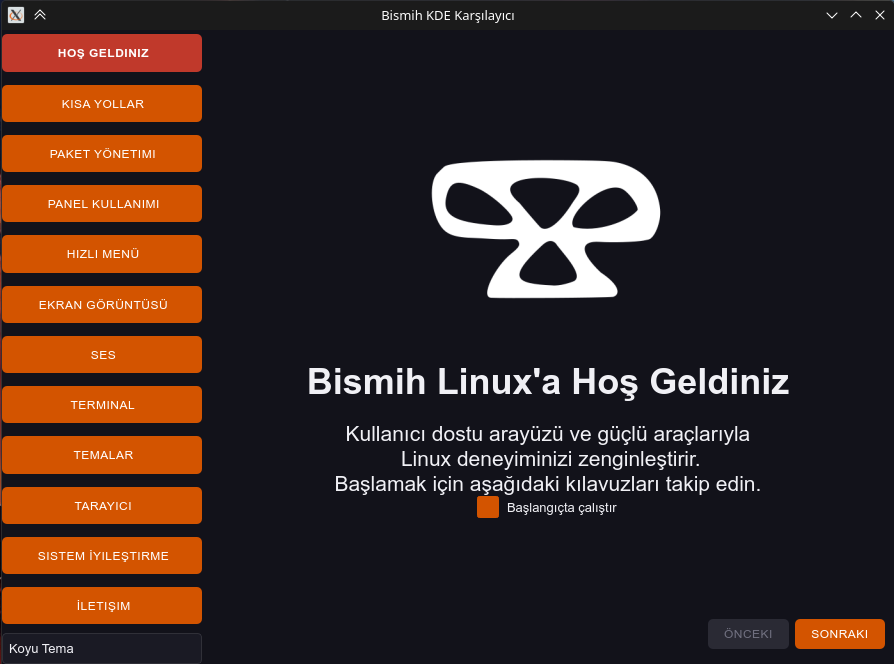
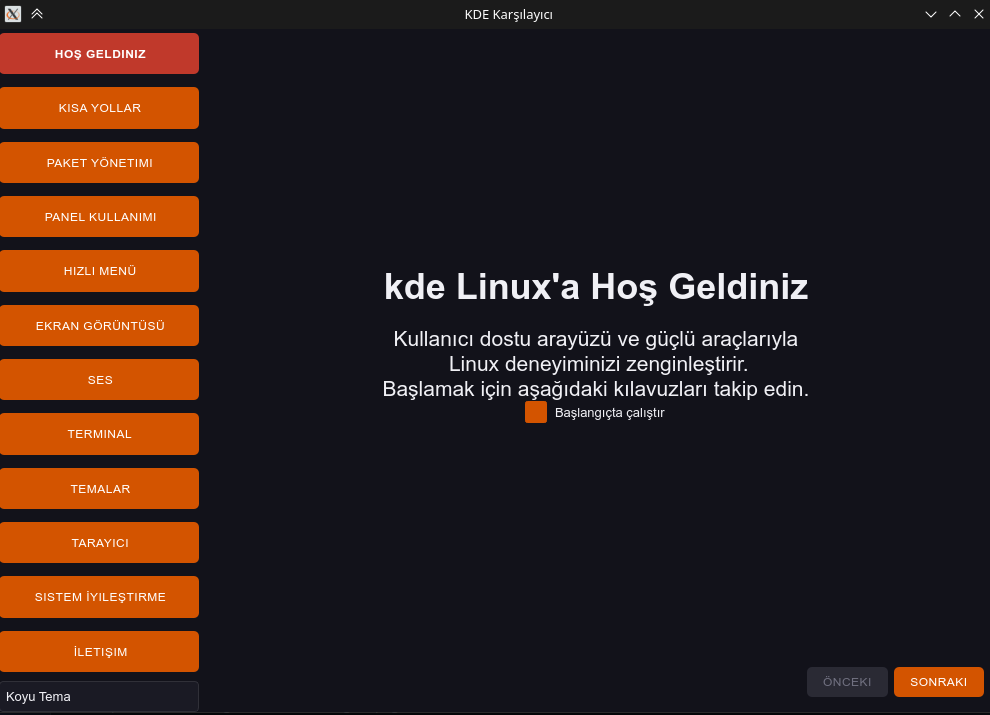
refactor

diff --git a/setup.py b/setup.py
@@ -21,31 +21,31 @@ if os.path.exists(changelog):
 
 data_files = [
     # Main executable and desktop file
-    ("/usr/bin", ["bismih-welcome"]),
-    ("/usr/share/applications", ["bismih-welcome.desktop"]),
+    ("/usr/bin", ["kde-welcome"]),
+    ("/usr/share/applications", ["kde-welcome.desktop"]),
     # Icons
     (
         "/usr/share/icons/hicolor/scalable/apps/",
-        ["data/icons/bismih-welcome.svg"],
+        ["data/icons/kde-welcome.svg"],
     ),
     # Main application files
-    ("/usr/share/bismih-welcome/", ["main.py"]),
+    ("/usr/share/kde-welcome/", ["main.py"]),
     # Source code - static
-    ("/usr/share/bismih-welcome/src/static", ["src/static/config.py"]),
+    ("/usr/share/kde-welcome/src/static", ["src/static/config.py"]),
     # Source code - theme
-    ("/usr/share/bismih-welcome/src/theme", ["src/theme/theme_manager.py"]),
-    ("/usr/share/bismih-welcome/src/theme/icons", [
+    ("/usr/share/kde-welcome/src/theme", ["src/theme/theme_manager.py"]),
+    ("/usr/share/kde-welcome/src/theme/icons", [
         "src/theme/icons/branch-closed.png",
         "src/theme/icons/branch-open.png",
         "src/theme/icons/check-white.png"
     ]),
     # Source code - UI
-    ("/usr/share/bismih-welcome/src/ui", [
+    ("/usr/share/kde-welcome/src/ui", [
         "src/ui/categories.py",
         "src/ui/main_window.py"
     ]),
     # Source code - UI components
-    ("/usr/share/bismih-welcome/src/ui/components", [
+    ("/usr/share/kde-welcome/src/ui/components", [
         "src/ui/components/browser_comp.py",
         "src/ui/components/communication_comp.py",
         "src/ui/components/layout_sellector_comp.py",
@@ -62,14 +62,14 @@ data_files = [
         "src/ui/components/welcome_comp.py"
     ]),
     # Source code - UI widgets
-    ("/usr/share/bismih-welcome/src/ui/widgets", [
+    ("/usr/share/kde-welcome/src/ui/widgets", [
         "src/ui/widgets/BLabel.py",
         "src/ui/widgets/gif_viewer.py"
     ]),
     # Data files - theme
-    ("/usr/share/bismih-welcome/data", ["data/theme.qss"]),
+    ("/usr/share/kde-welcome/data", ["data/theme.qss"]),
     # Data files - icons
-    ("/usr/share/bismih-welcome/data/icons", [
+    ("/usr/share/kde-welcome/data/icons", [
         "data/icons/browser-svgrepo-com.svg",
         "data/icons/circle-menu-svgrepo-com.svg",
         "data/icons/dialog-svgrepo-com.svg",
@@ -88,14 +88,14 @@ data_files = [
         "data/icons/terminal-svgrepo-com.svg"
     ]),
     # Data files - images
-    ("/usr/share/bismih-welcome/data/images", [
-        "data/images/bismih_icon_dark.png",
-        "data/images/bismih_icon_dark.svg",
-        "data/images/bismih_icon_light.png",
-        "data/images/bismih_icon_light.svg",
+    ("/usr/share/kde-welcome/data/images", [
+        "data/images/kde_icon_dark.png",
+        "data/images/kde_icon_dark.svg",
+        "data/images/kde_icon_light.png",
+        "data/images/kde_icon_light.svg",
         "data/images/zen_browser.png"
     ]),
-    ("/usr/share/bismih-welcome/data/images/gestures", [
+    ("/usr/share/kde-welcome/data/images/gestures", [
         "data/images/gestures/2gesture_d.png",
         "data/images/gestures/2gesture_l.png",
         "data/images/gestures/3gesture_d.png",
@@ -104,7 +104,7 @@ data_files = [
         "data/images/gestures/4gesture_l.png"
     ]),
     # Data files - gifs
-    ("/usr/share/bismih-welcome/data/gifs", [
+    ("/usr/share/kde-welcome/data/gifs", [
         "data/gifs/ekran.gif",
         "data/gifs/ekran_yazi.gif",
         "data/gifs/kesfet.gif",
@@ -120,21 +120,21 @@ data_files = [
         "data/gifs/terminal.gif"
     ]),
     # Test gif
-    ("/usr/share/bismih-welcome/data", ["data/test.gif"]),
+    ("/usr/share/kde-welcome/data", ["data/test.gif"]),
 ]
 
 
 setup(
-    name="bismih-welcome",
+    name="kde-welcome",
     version=version,
     packages=find_packages(),
-    scripts=["bismih-welcome"],
+    scripts=["kde-welcome"],
     install_requires=["PyQt6", "pyautogui", "coloredlogs", "pyyaml", "pyxdg"],
     data_files=data_files,
     author="Muhammet Halak",
     author_email="halakmuhammet145@gmail.com",
-    description="Bismih Welcome Application",
+    description="kde Welcome Application",
     license="GPLv3",
-    keywords="bismih-welcome, welcome, hoşgeldin, karşılama",
-    url="https://github.com/bismih-org/bismih-welcome",
+    keywords="kde-welcome, welcome, hoşgeldin, karşılama",
+    url="https://github.com/kde-org/kde-welcome",
 )

diff --git a/src/ui/components/communication_comp.py b/src/ui/components/communication_comp.py
@@ -42,7 +42,7 @@ class CommunicationComp(QWidget):
         github_card = self.generate_contact_card(
             "GitHub",
             "Kaynak kod, issue'lar ve katkıda bulunma",
-            "https://github.com/bismih-org",
+            "https://github.com/pardus",
             "#24292e"
         )
         cards_layout.addWidget(github_card, 0, 0)
@@ -51,16 +51,16 @@ class CommunicationComp(QWidget):
         forum_card = self.generate_contact_card(
             "Forum",
             "Topluluk tartışmaları ve destek",
-            "https://github.com/orgs/bismih-org/discussions",
+            "https://forum.pardus.org.tr/",
             "#0969da"
         )
         cards_layout.addWidget(forum_card, 0, 1)
 
-        # Signal kartı
+        # Discord kartı
         discord_card = self.generate_contact_card(
-            "Signal",
+            "Discord",
             "Anlık sohbet ve topluluk",
-            "https://signal.group/#CjQKILD6taU2K6HXyYScZY08o4o2krF3xQDktDrxFIq16JNiEhAS6WpiAcJ6a2_Ii_2GFDrQ",  # Gerçek link ile değiştirin
+            "https://discord.com/invite/vF7mj53ZNV",  # Gerçek link ile değiştirin
             "#2530FD"
         )
         cards_layout.addWidget(discord_card, 1, 0)
@@ -69,7 +69,7 @@ class CommunicationComp(QWidget):
         email_card = self.generate_contact_card(
             "E-posta",
             "Resmi iletişim ve destek",
-            "mailto:halakmuhammet145@gmail.com",  # Gerçek email ile değiştirin
+            "mailto:bilgi@pardus.org.tr",  # Gerçek email ile değiştirin
             "#ea4335"
         )
         cards_layout.addWidget(email_card, 1, 1)

diff --git a/src/ui/components/package_manager_comp.py b/src/ui/components/package_manager_comp.py
@@ -133,7 +133,7 @@ class PackageManagerComp(QWidget):
 
         # Açıklama
         desc = """Program yüklemek için internette dolaşma
-Bismih Linux, Mağaza ve Uçbirim desteği ile kolaylıkla program yükle"""
+kde Linux, Mağaza ve Uçbirim desteği ile kolaylıkla program yükle"""
 
         desc_label = BLabel(desc, 11)
         desc_label.setAlignment(Qt.AlignmentFlag.AlignCenter)
@@ -225,7 +225,7 @@ Bismih Linux, Mağaza ve Uçbirim desteği ile kolaylıkla program yükle"""
         docs_button = QPushButton("📘 Paket Yönetimi Belgelerini Görüntüle")
         docs_button.clicked.connect(
             lambda: QDesktopServices.openUrl(
-                QUrl("https://github.com/bismih-org/.github/wiki")
+                QUrl("https://github.com/kde-org/.github/wiki")
             )
         )
         docs_section.addWidget(docs_button)

diff --git a/src/ui/components/welcome_comp.py b/src/ui/components/welcome_comp.py
@@ -30,7 +30,7 @@ class WelcomeComp(QWidget):
         self.mainLayout.addWidget(self.icon_label)
 
         # Başlık ve açıklama ekle
-        self.title = BLabel("Bismih Linux'a Hoş Geldiniz", 27, is_bold=True)
+        self.title = BLabel("kde Linux'a Hoş Geldiniz", 27, is_bold=True)
         self.mainLayout.addWidget(self.title)
         self.mainLayout.addSpacing(20)
 
@@ -65,7 +65,7 @@ class WelcomeComp(QWidget):
 
     def updateWid(self):
         # İkon yolunu temaya göre güncelle
-        p = "data/images/bismih_icon_"
+        p = "data/images/kde_icon_"
         icon_path = p + ("dark" if not cfg.IS_THEME_DARK else "light") + ".png"
         print(f"Icon path: {icon_path}")
         icon_pixmap = QIcon(icon_path).pixmap(QSize(256, 256))

diff --git a/src/ui/main_window.py b/src/ui/main_window.py
@@ -112,7 +112,7 @@ class MainWindow(QMainWindow):
         mainLayout.addWidget(rightPanel, 1)  # 1 değeri genişleyebilir olduğunu belirtir
 
         # Pencere ayarları
-        self.setWindowTitle("Bismih KDE Karşılayıcı")
+        self.setWindowTitle("kde KDE Karşılayıcı")
         self.setMinimumSize(800, 600)
 
         # İlk kategoriyi seç

diff --git a/src/static/config.py b/src/static/config.py
@@ -2,5 +2,5 @@ import os
 
 IS_THEME_DARK = True
 HOME = os.path.expanduser("~")
-DESKTOP_PATH = HOME + "/.config/autostart/bismih-welcome.desktop"
-DESKTOP_ROOT_PATH = "/usr/share/applications/bismih-welcome.desktop"
+DESKTOP_PATH = HOME + "/.config/autostart/kde-welcome.desktop"
+DESKTOP_ROOT_PATH = "/usr/share/applications/kde-welcome.desktop"

diff --git a/README.md b/README.md
@@ -1,14 +1,14 @@
-# Bismih Welcome
+# KDE Welcome
 
-Bismih Linux için kullanıcı dostu karşılama uygulaması. Bu uygulama, yeni kullanıcıların sistem özelliklerini keşfetmesini ve öğrenmesini sağlar.
+Pardus KDE için kullanıcı dostu karşılama uygulaması. Bu uygulama, yeni kullanıcıların sistem özelliklerini keşfetmesini ve öğrenmesini sağlar.
 
-<img src="data/images/app.png" alt="Bismih Logo" width="400"/>
-
-
-<img src="data/images/shortucut.png" alt="Bismih Logo" width="400"/>
+<img src="data/images/app.png" alt="kde Logo" width="400"/>
 
 
-<img src="data/images/terminal.png" alt="Bismih Logo" width="400"/>
+<img src="data/images/shortucut.png" alt="kde Logo" width="400"/>
+
+
+<img src="data/images/terminal.png" alt="kde Logo" width="400"/>
 
 
 ## 🌟 Özellikler
@@ -75,26 +75,26 @@ python3 main.py
 # Debian paketi oluşturma
 sudo apt install devscripts git-buildpackage
 sudo mk-build-deps -ir
-gbp buildpackage --git-export-dir=/tmp/build/bismih-welcome -us -uc --git-ignore-branch --git-ignore-new
+gbp buildpackage --git-export-dir=/tmp/build/kde-welcome -us -uc --git-ignore-branch --git-ignore-new
 ```
 
 ### Kurulum Sonrası
 
 Uygulama kurulduktan sonra aşağıdaki yollardan erişilebilir:
 
-- **Komut satırı**: `bismih-welcome`
-- **Uygulama menüsü**: "Bismih Welcome" uygulaması
+- **Komut satırı**: `kde-welcome`
+- **Uygulama menüsü**: "kde Welcome" uygulaması
 - **Otomatik başlatma**: Sistem başlangıcında otomatik çalışır (isteğe bağlı)
 
 ## 🏗 Proje Yapısı
 
 ```
-bismih-welcome/
+kde-welcome/
 ├── main.py                 # Ana uygulama dosyası
 ├── setup.py               # Kurulum scripti
 ├── requirements.txt       # Python bağımlılıkları
-├── bismih-welcome         # Çalıştırılabilir script
-├── bismih-welcome.desktop # Desktop entry dosyası
+├── kde-welcome         # Çalıştırılabilir script
+├── kde-welcome.desktop # Desktop entry dosyası
 ├── data/                  # Veri dosyaları
 │   ├── theme.qss         # Tema stil dosyası
 │   ├── icons/            # İkon dosyaları
@@ -175,19 +175,7 @@ SECONDARY_BG = "#ffffff"    # İkinci arkaplan
 
 Bu proje [Apache License 2.0](LICENSE) altında lisanslanmıştır.
 
-## 👥 Topluluk
-
-- **GitHub**: [bismih-org](https://github.com/bismih-org)
-- **Forum**: [GitHub Discussions](https://github.com/orgs/bismih-org/discussions)
-- **Signal**: [Topluluk Grubu](https://signal.group/#CjQKILD6taU2K6HXyYScZY08o4o2krF3xQDktDrxFIq16JNiEhAS6WpiAcJ6a2_Ii_2GFDrQ)
-- **E-posta**: halakmuhammet145@gmail.com
 
 ## 🙏 Teşekkürler
 
 - **SVG Repo** - İkon dosyaları için
-- **PyQt6 Topluluğu** - Teknik destek için
-- **Bismih Linux Topluluğu** - Geri bildirimler için
-
----
-
-**Bismih Linux** - Kullanıcı dostu Linux deneyimi
